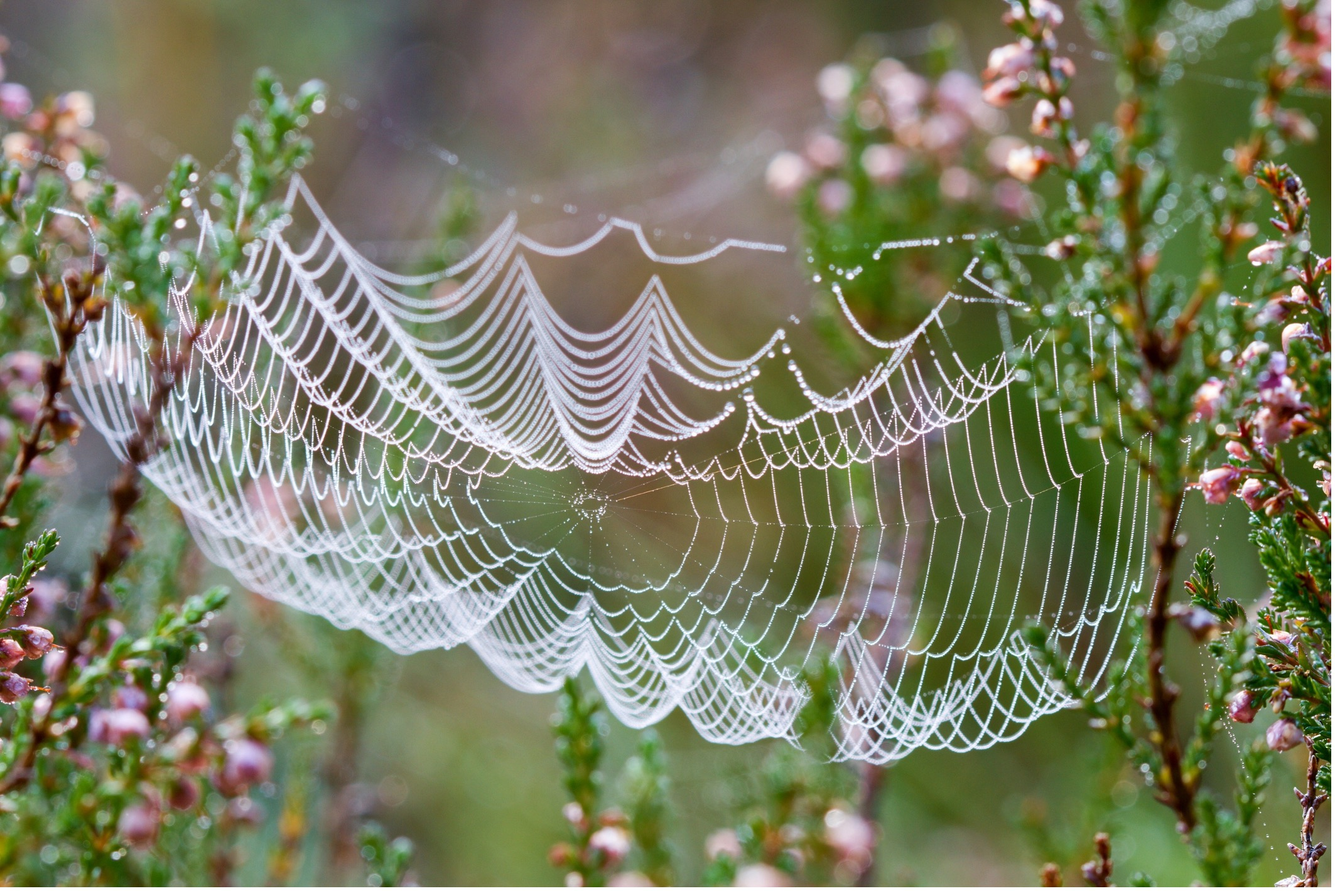
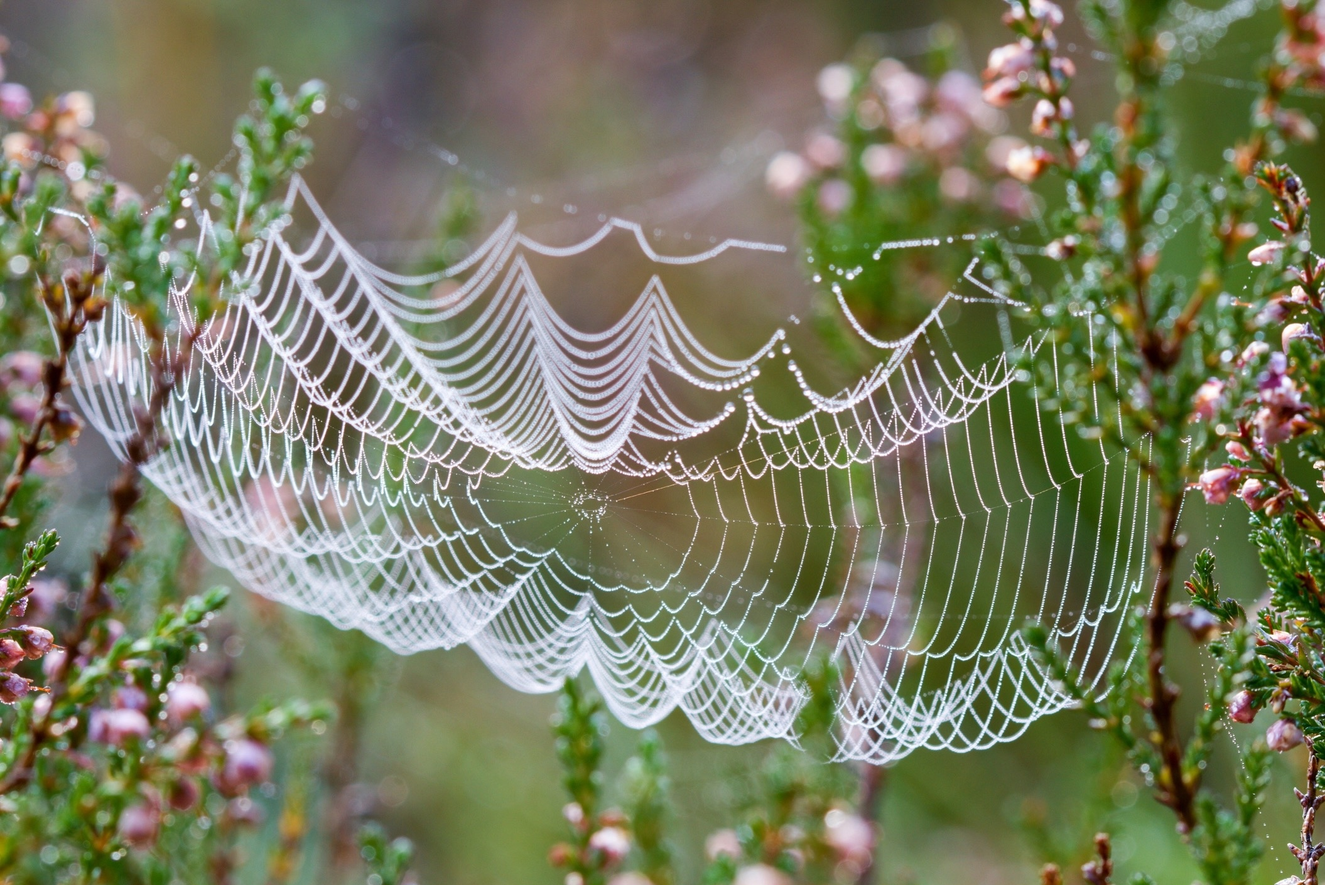
Cropped the spider web. Fixed hover color.

diff --git a/css/styles-custom.css b/css/styles-custom.css
@@ -86,3 +86,7 @@ h2 {
   color: #212529 !important;
 }
 
+#engage .portfolio-item .portfolio-item-caption {
+  background-color: rgba(180, 160, 35, 0.8);
+}
+
